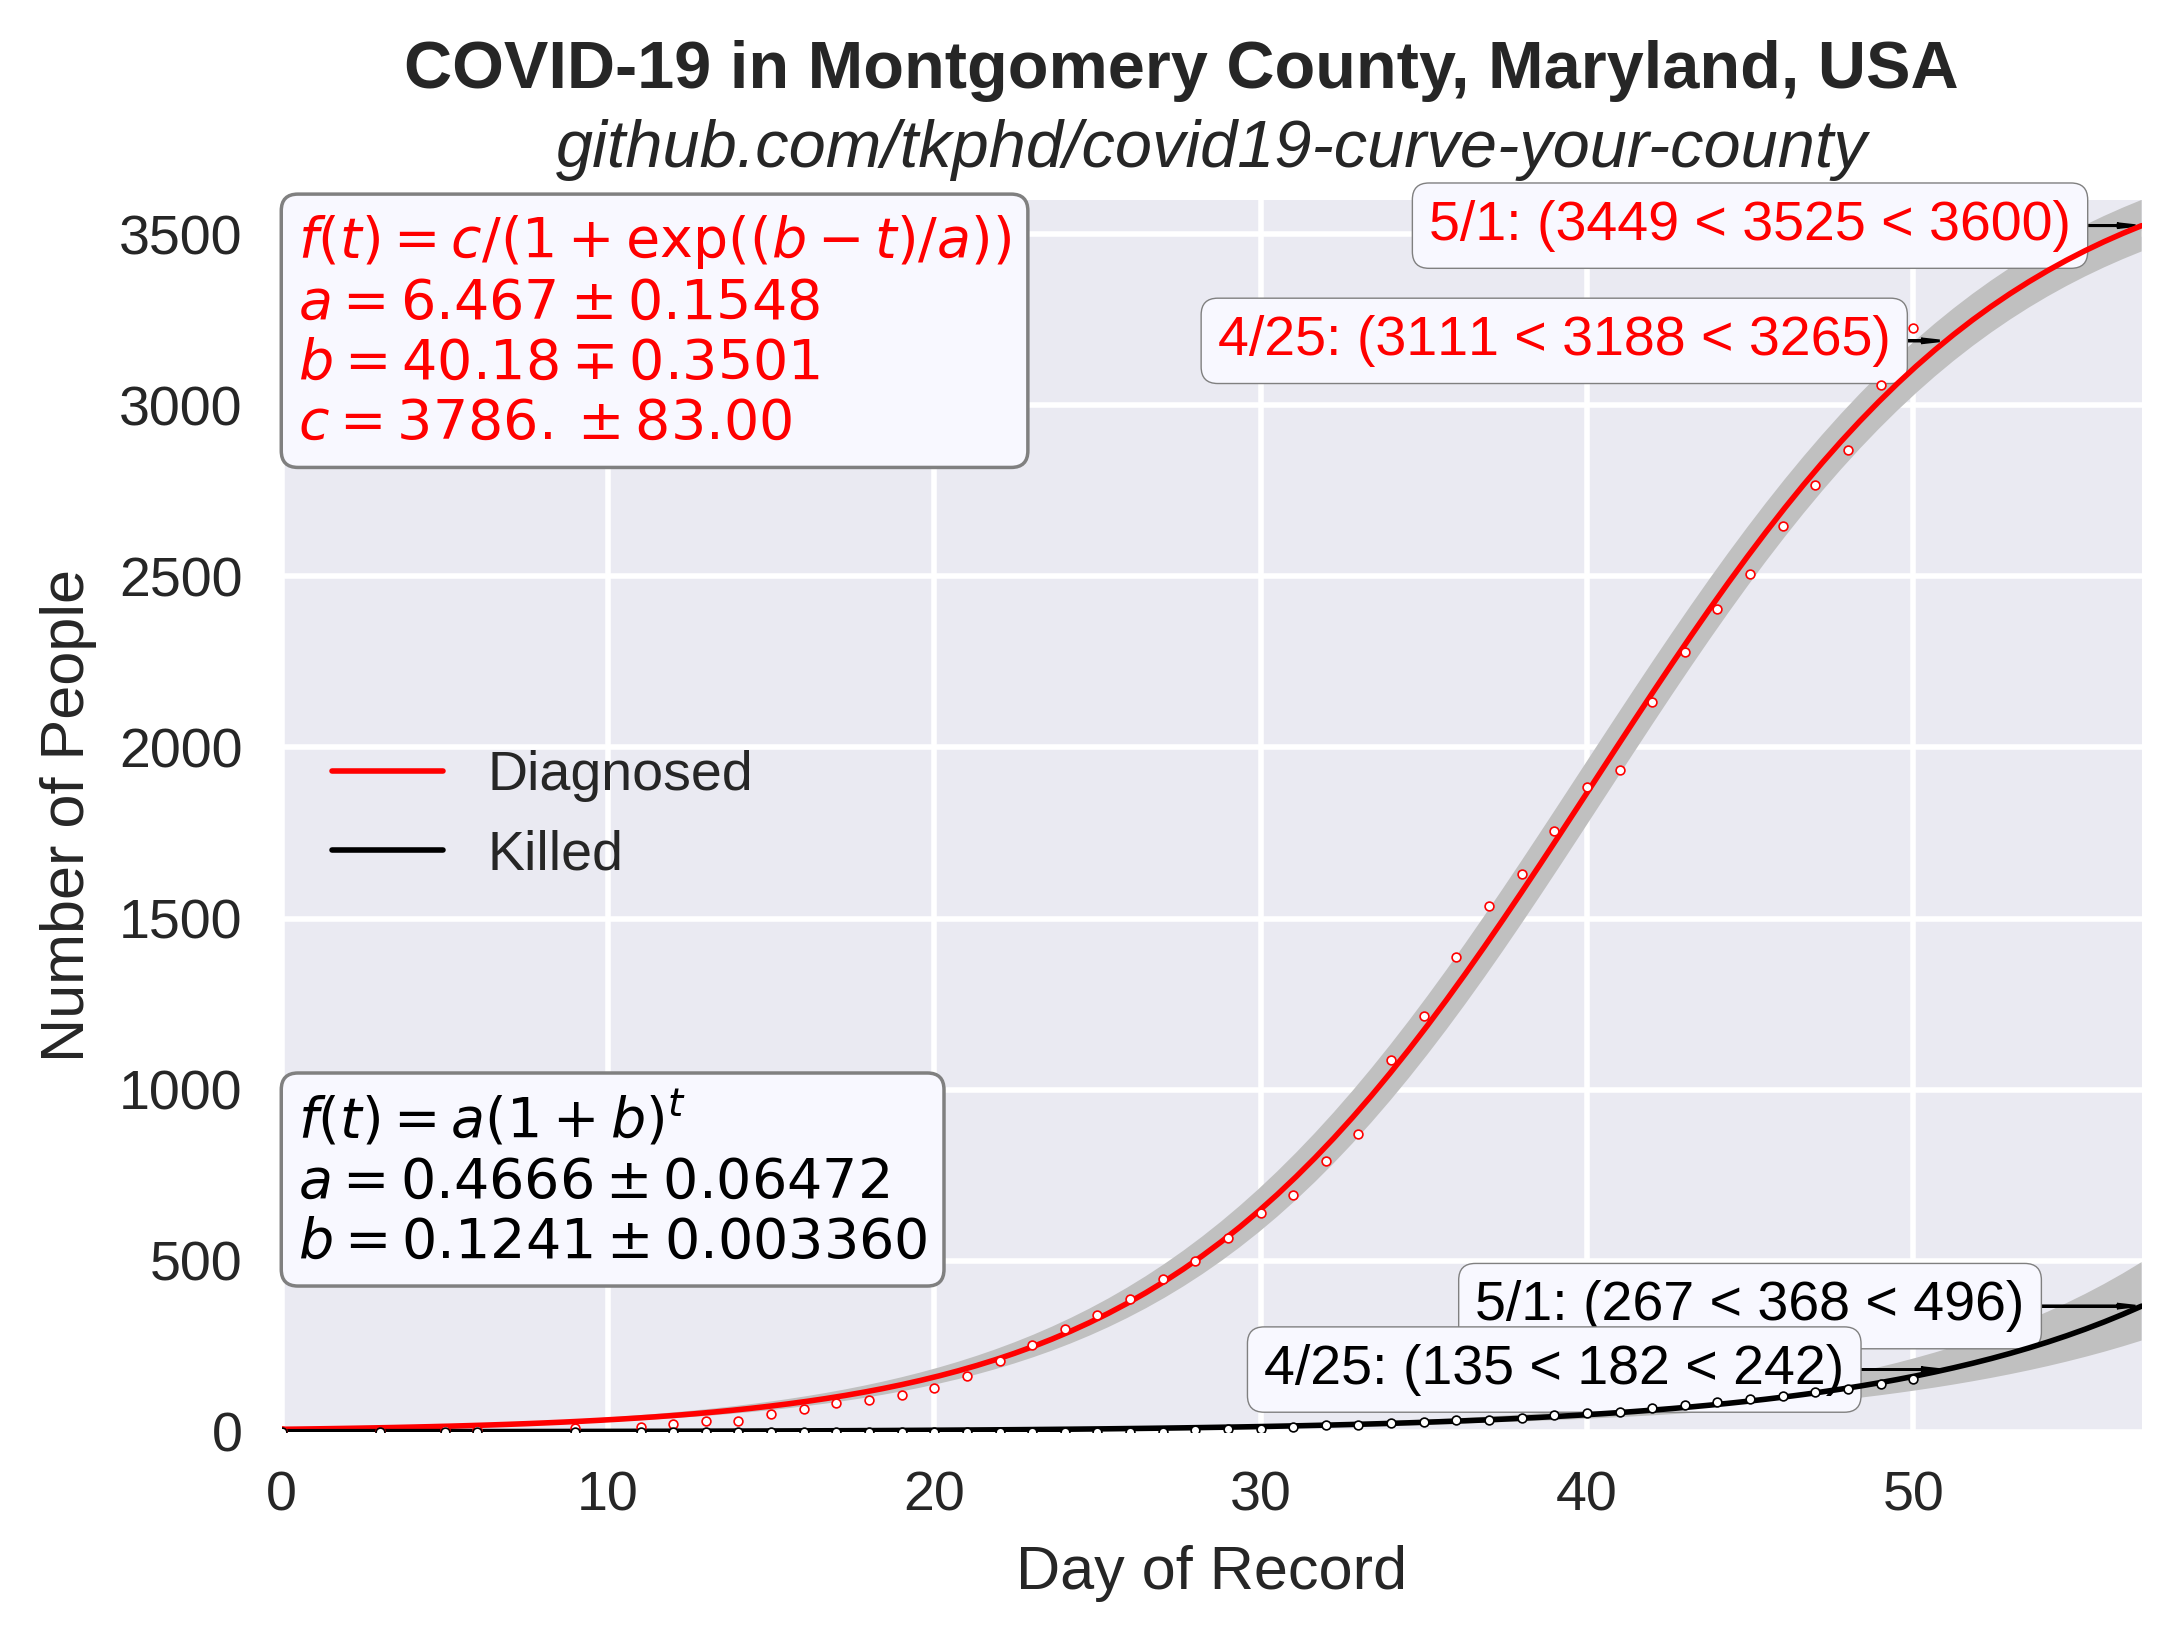
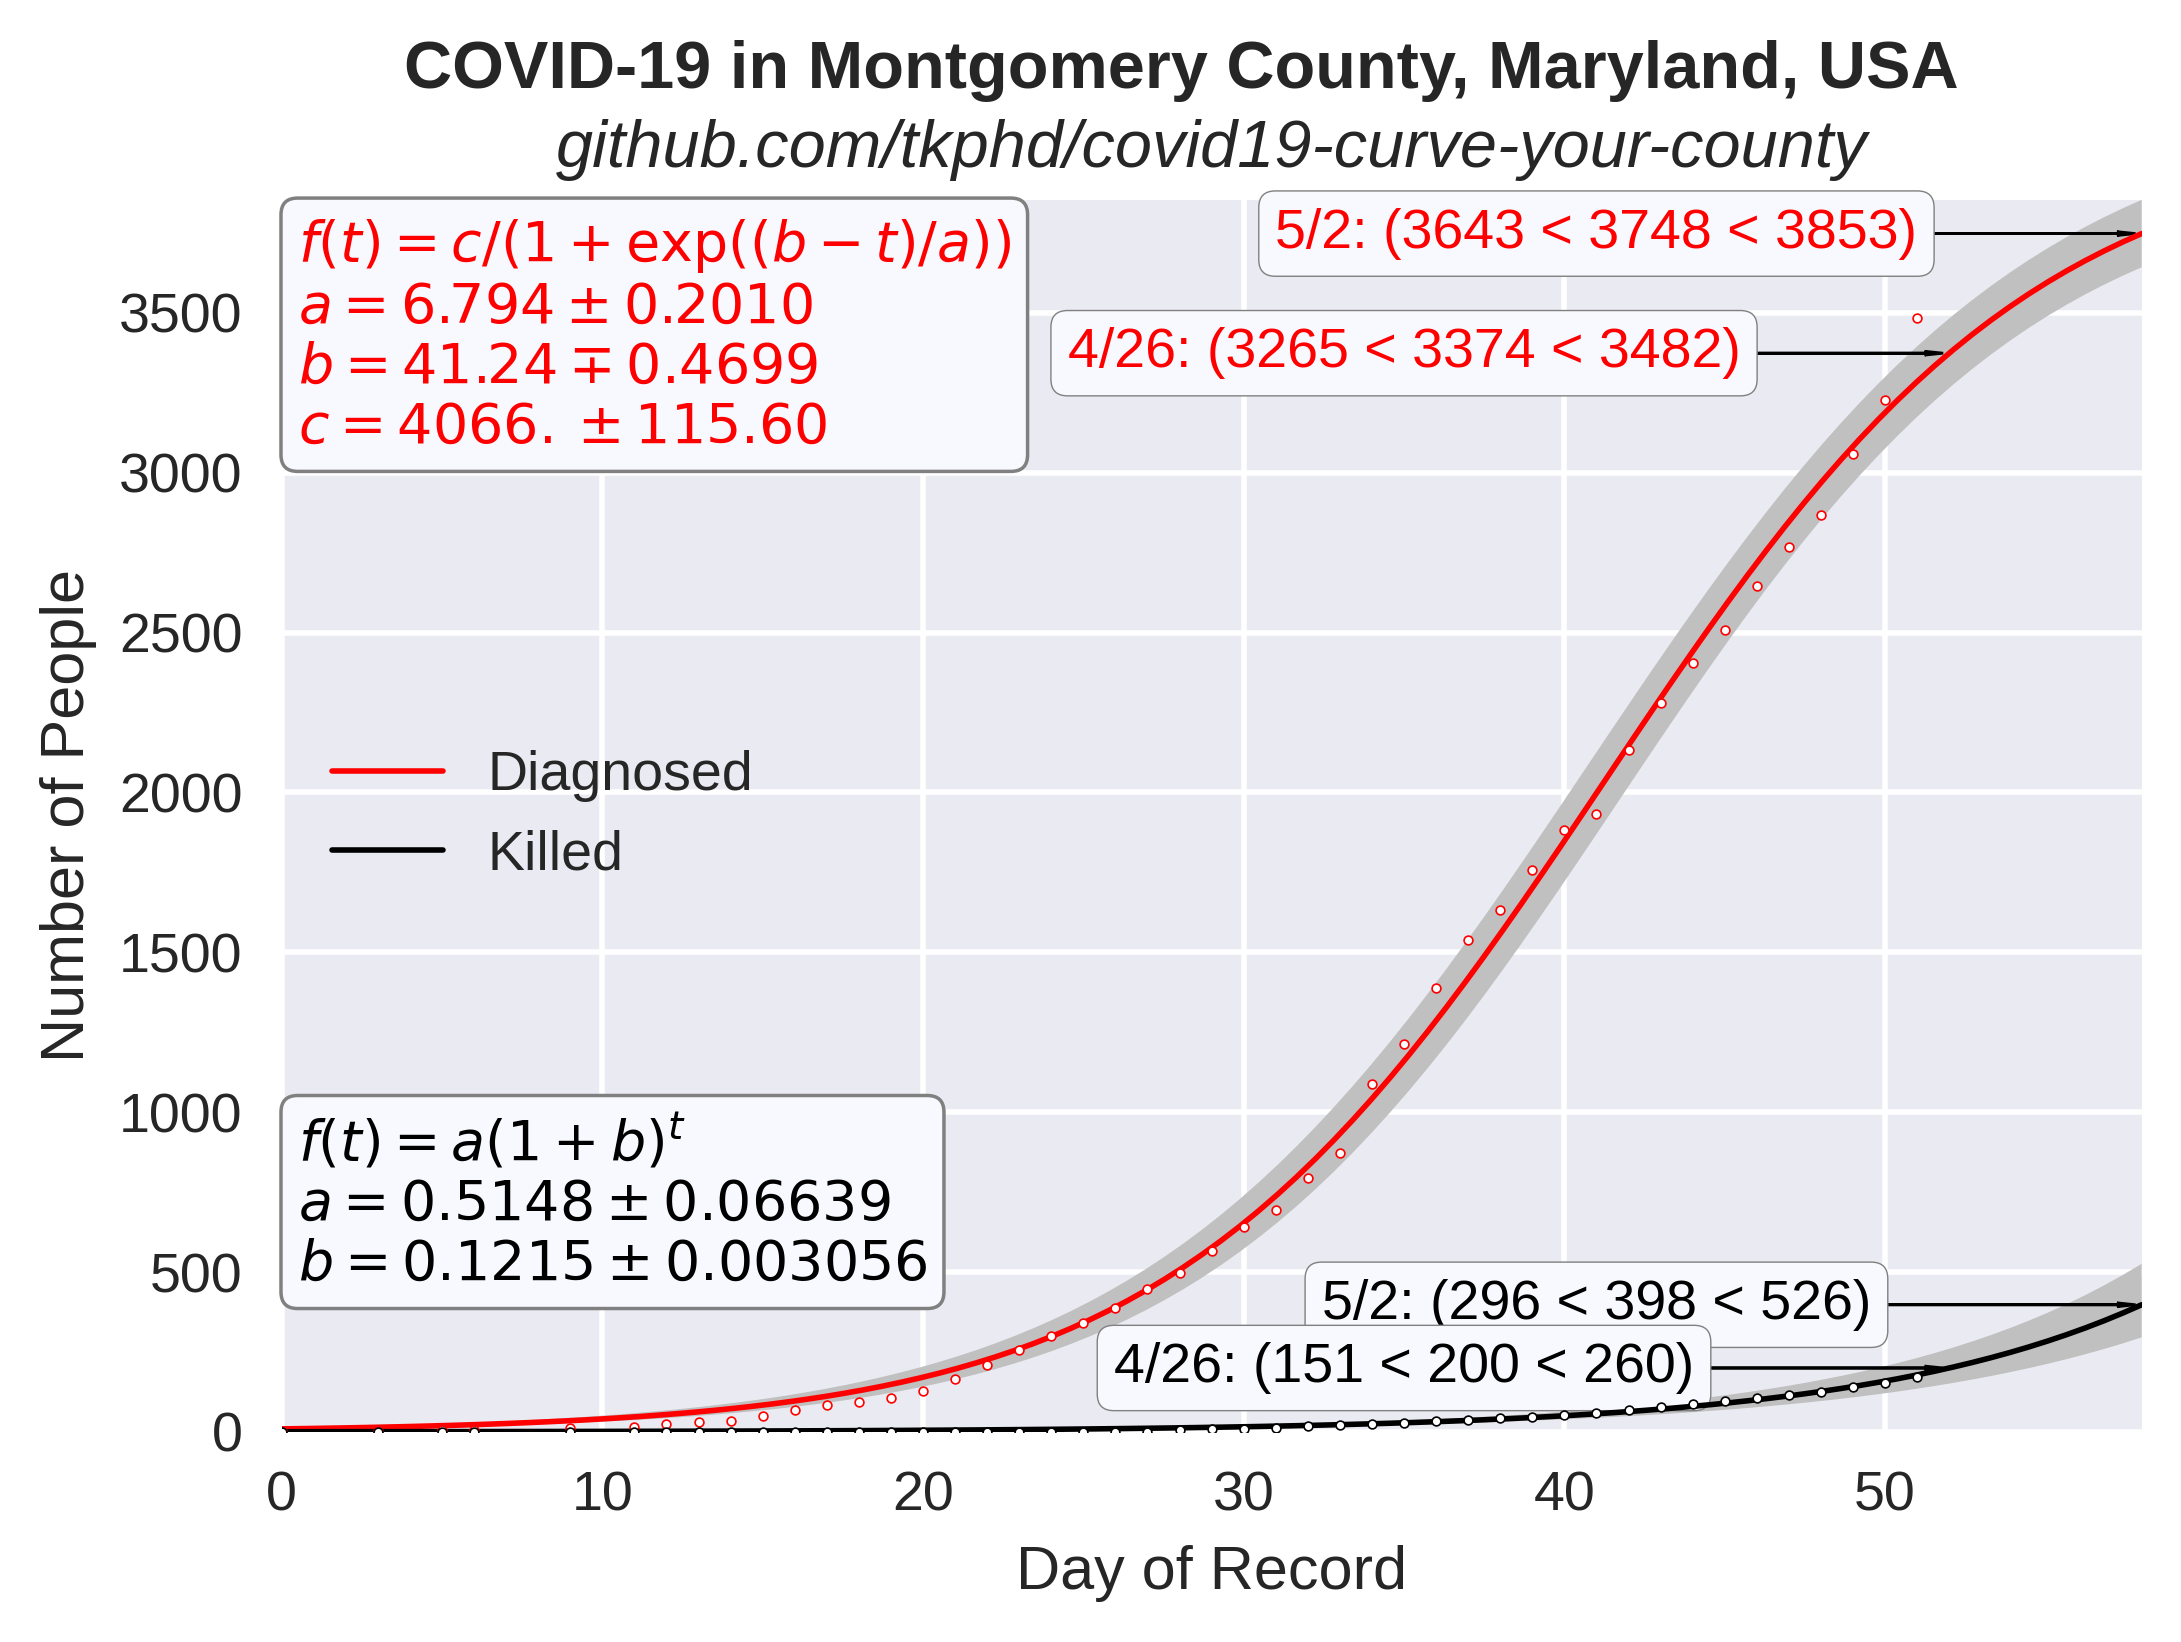
2020-04-25 update

diff --git a/exponential.py b/exponential.py
@@ -159,7 +159,7 @@ for key in columns:
     # Predictions
 
     dx = 0.25
-    dt = 12
+    dt = 17
 
     tomorrow = date.fromordinal(today + 1)
     nextWeek = date.fromordinal(today + 7)
